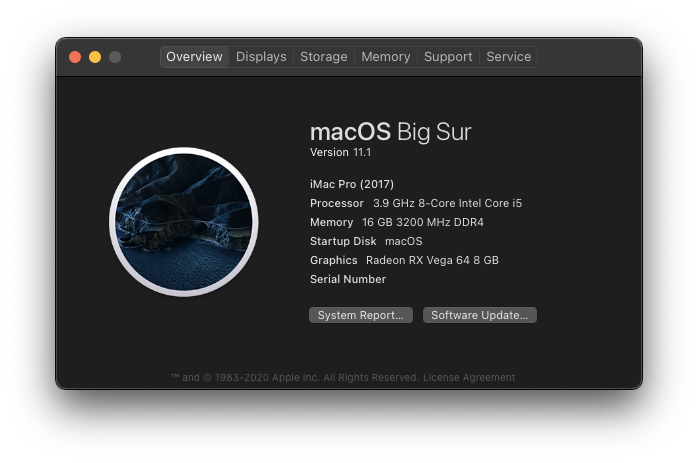
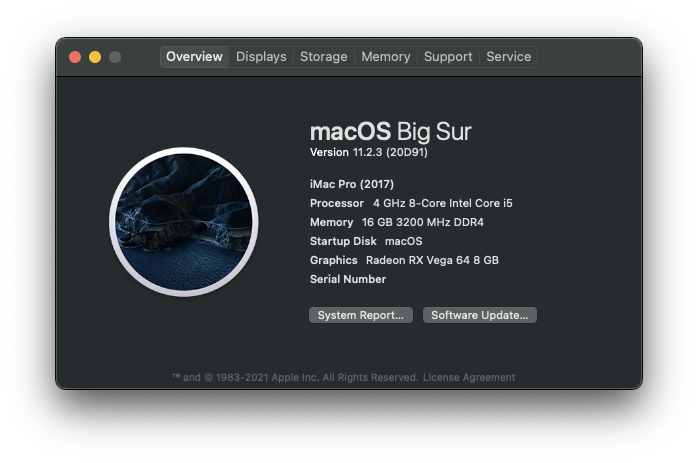
Updated the README

diff --git a/README.md b/README.md
@@ -4,14 +4,14 @@
 
 ⚠ <b>OpenCore is still in beta. Please keep this in mind.</b>
 
-**macOS Big Sur**: 11.2 (20D64) Dual Boot w/ **Windows 10**: 2004
+**macOS Big Sur**: 11.2.3 (20D91) Dual Boot w/ **Windows 10**: 2004
 
-**OpenCore version**: 0.6.5 <br>
+**OpenCore version**: 0.6.6 <br>
 
 ## My System
 | **Component** | **Model** |
 | ------------- | --------- |
-| CPU | AMD Ryzen 7 1800x @ 3.6GHz |
+| CPU | AMD Ryzen 7 1800x @ 4.0GHz |
 | Motherboard | ASUS ROG Strix B450-F Gaming |
 | GPU | Vega 64 Limited Edition |
 | RAM | 16GB @ 3200MHz |
@@ -29,11 +29,13 @@
 ### Kexts Used
 1. [AMDRyzenCPUPowerManagement](https://github.com/trulyspinach/SMCAMDProcessor)
 2. [AppleALC](https://github.com/acidanthera/AppleALC)
-3. [Lilu](https://github.com/acidanthera/Lilu)
-4. [SmallTreeIntel82576](https://github.com/khronokernel/SmallTree-I211-AT-patch)
-5. [SMCAMDProcessor](https://github.com/trulyspinach/SMCAMDProcessor)
-6. [VirtualSMC](https://github.com/acidanthera/virtualsmc)
-7. [WhateverGreen](https://github.com/acidanthera/whatevergreen)
+3. AppleMCEReporterDisabler
+4. [Lilu](https://github.com/acidanthera/Lilu)
+5. [NVMeFix](https://github.com/acidanthera/NVMeFix)
+6. [SmallTreeIntel82576](https://github.com/khronokernel/SmallTree-I211-AT-patch)
+7. [SMCAMDProcessor](https://github.com/trulyspinach/SMCAMDProcessor)
+8. [VirtualSMC](https://github.com/acidanthera/virtualsmc)
+9. [WhateverGreen](https://github.com/acidanthera/whatevergreen)
 
 ## Installation
   1. Format a USB stick, preferably USB 3, with the NTFS file system
@@ -45,7 +47,7 @@
   7. When this is complete, you will now see a USB device called "BOOT" replaced the "EFI" folder contained in it with the one that is contained in this repo.
   
   8. Download [**GenSMBIOS**](https://github.com/corpnewt/GenSMBIOS) and open "GenSMBIOS.bat". Then press 1 and then 2, enter the path to the config.plist that is saved on the "BOOT" USB stick under EFI > OC .
-  9. After that press 3 and type in "MacPro7,1". Then press enter, if you now see a random number combination in the window that follows, you have done everything correctly so far.
+  9. After that press 3 and type in "iMacPro1,1". Then press enter, if you now see a random number combination in the window that follows, you have done everything correctly so far.
   10. Now boot from the USB stick after deactivating secure boot, fast boot, and csm in the BIOS and unplugging all hard drives, apart from a single blank one on which you want to install macOS.
 
 > Set OS Type in your BIOS to `Other OS` if you're having issues booting the macOS installer.
